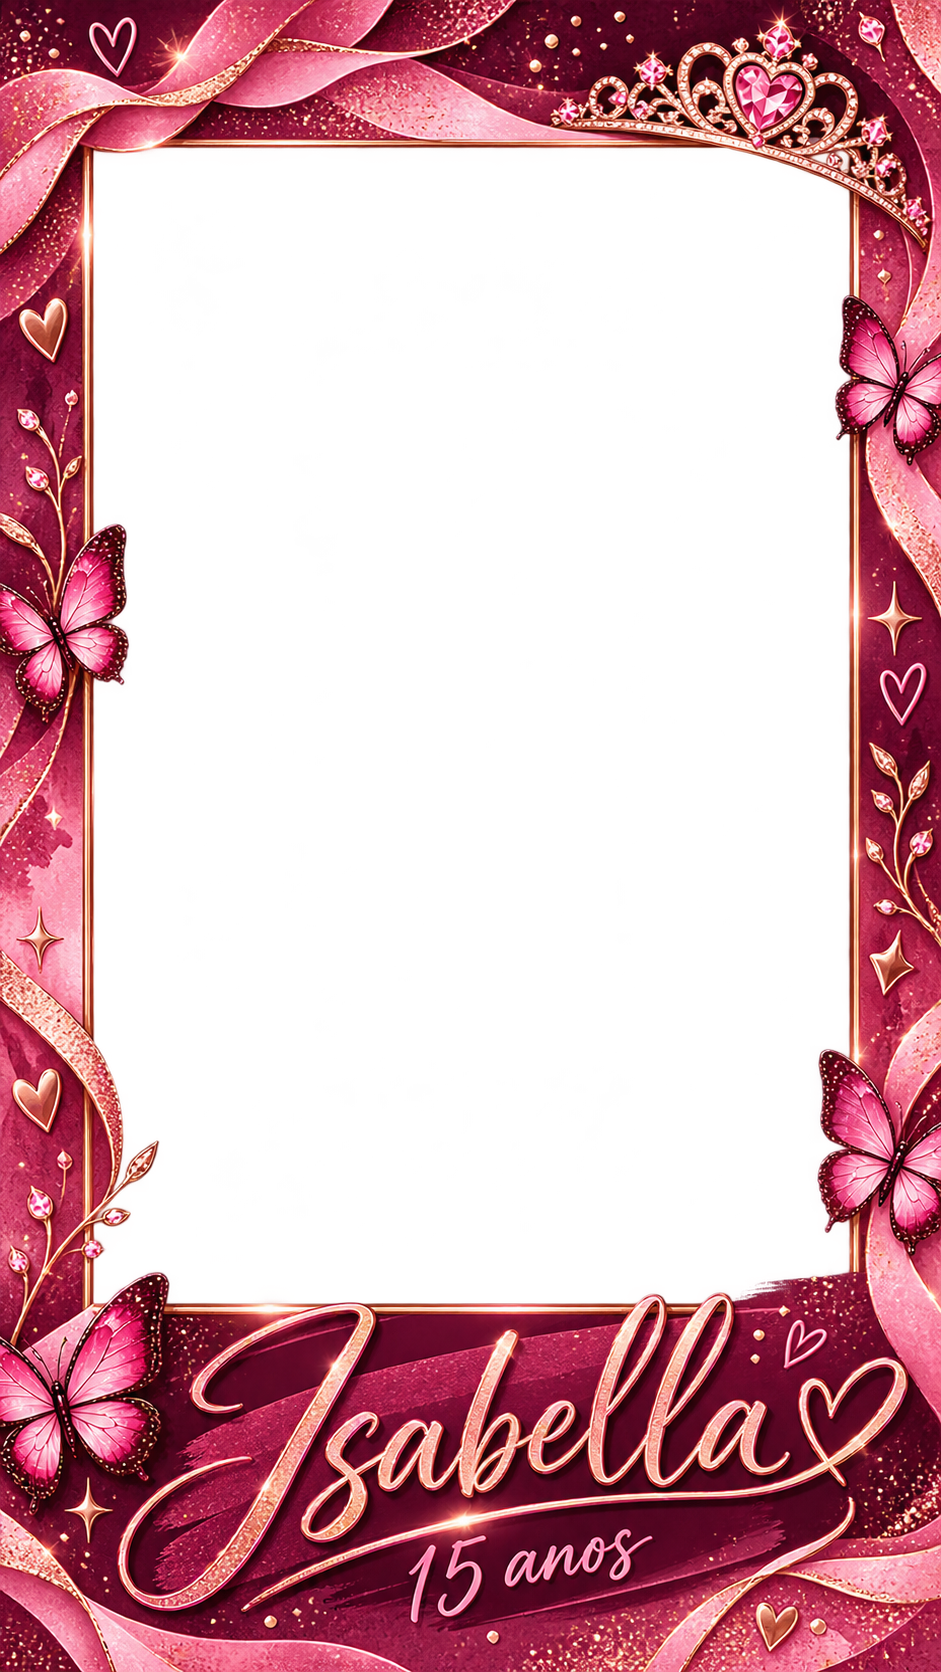
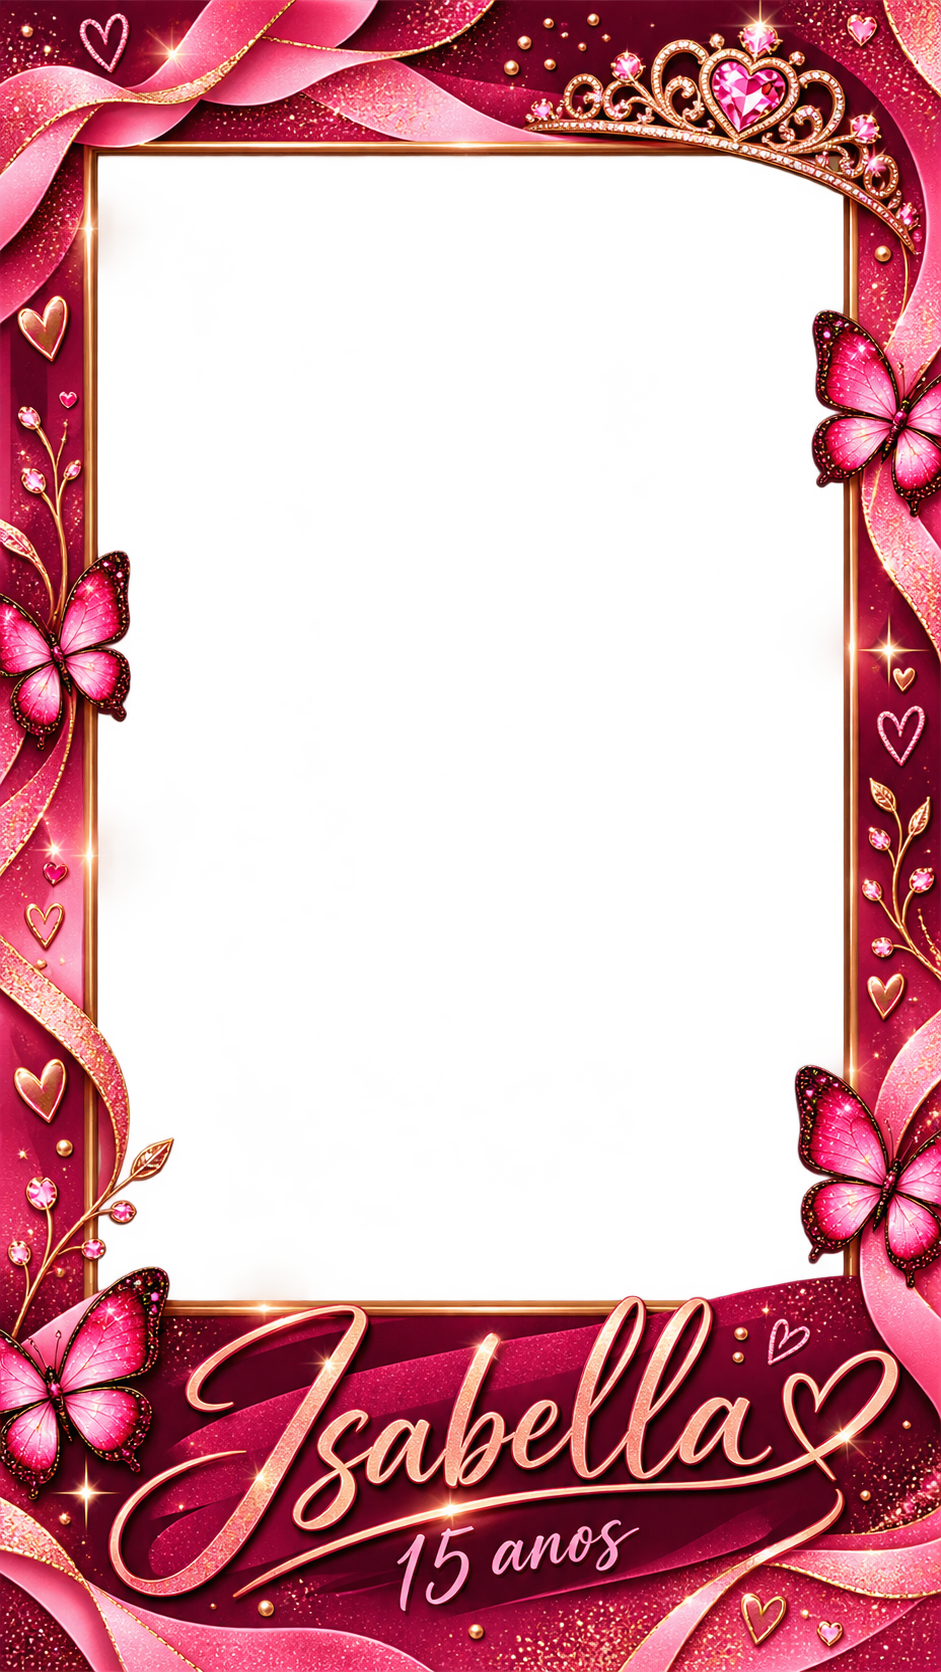
Feat/festa15

diff --git a/src/features/events/PartySealPage.jsx b/src/features/events/PartySealPage.jsx
@@ -3,24 +3,121 @@ import { TrisoLogo } from "../../components/TrisoLogo.jsx";
 import fitaIsabella1 from "../../assets/festas/isabella15/fita_isabella_1.png";
 import fitaIsabella2 from "../../assets/festas/isabella15/fita_isabella_2.png";
 import fitaIsabella3 from "../../assets/festas/isabella15/fita_isabella_3.png";
+import fitaIsabella4 from "../../assets/festas/isabella15/fita_isabella_4.png";
 
 const OUTPUT = { width: 1080, height: 1920 };
 const PARTY_TEMPLATES = {
   1: fitaIsabella1,
   2: fitaIsabella2,
   3: fitaIsabella3,
+  4: fitaIsabella4,
 };
 const loadImage = (source) => new Promise((resolve, reject) => {
+  if (!source) return resolve(null);
   const image = new Image();
   image.onload = () => resolve(image);
   image.onerror = reject;
   image.src = source;
 });
 
+const p = (x, y) => ({ x, y });
+const photoCropCache = new WeakMap();
+const ISABELLA_LAYOUTS = {
+  one: { slots: [{ x: 98, y: 157, width: 745, height: 1143, rotation: 0 }] },
+  two: { slots: [
+    { x: 105, y: 161, width: 732, height: 573, rotation: 0 },
+    { x: 105, y: 804, width: 734, height: 468, rotation: 0 },
+  ] },
+  three: { slots: [
+    { x: 108, y: 179, width: 324, height: 541, rotation: 0 },
+    { x: 512, y: 180, width: 326, height: 539, rotation: 0 },
+    { x: 109, y: 776, width: 727, height: 494, rotation: 0 },
+  ] },
+  four: { slots: [
+    { x: 101, y: 169, width: 342, height: 550, rotation: 0 },
+    { x: 499, y: 169, width: 343, height: 550, rotation: 0 },
+    { x: 102, y: 782, width: 341, height: 486, rotation: 0 },
+    { x: 499, y: 782, width: 343, height: 486, rotation: 0 },
+  ] },
+};
+
+function drawIntoPolygon(context, image, polygon) {
+  const xs = polygon.map((point) => point.x);
+  const ys = polygon.map((point) => point.y);
+  const x = Math.min(...xs);
+  const y = Math.min(...ys);
+  const width = Math.max(...xs) - x;
+  const height = Math.max(...ys) - y;
+  const crop = getPhotoCrop(image);
+  const scale = Math.max(width / crop.width, height / crop.height);
+  const drawWidth = crop.width * scale;
+  const drawHeight = crop.height * scale;
+  context.save();
+  context.beginPath();
+  context.moveTo(polygon[0].x, polygon[0].y);
+  polygon.slice(1).forEach((point) => context.lineTo(point.x, point.y));
+  context.closePath();
+  context.clip();
+  context.drawImage(image, crop.x, crop.y, crop.width, crop.height, x + (width - drawWidth) / 2, y + (height - drawHeight) / 2, drawWidth, drawHeight);
+  context.restore();
+}
+
+function getPhotoCrop(image) {
+  if (photoCropCache.has(image)) return photoCropCache.get(image);
+  const canvas = document.createElement("canvas");
+  canvas.width = image.naturalWidth || image.width;
+  canvas.height = image.naturalHeight || image.height;
+  const context = canvas.getContext("2d", { willReadFrequently: true });
+  if (!context) return { x: 0, y: 0, width: image.width, height: image.height };
+  context.drawImage(image, 0, 0);
+  const pixels = context.getImageData(0, 0, canvas.width, canvas.height).data;
+  const isDarkRow = (row) => {
+    let dark = 0;
+    for (let x = 0; x < canvas.width; x += 1) {
+      const offset = (row * canvas.width + x) * 4;
+      if (pixels[offset] < 28 && pixels[offset + 1] < 28 && pixels[offset + 2] < 28) dark += 1;
+    }
+    return dark / canvas.width > 0.94;
+  };
+  let top = 0;
+  let bottom = canvas.height - 1;
+  while (top < bottom && isDarkRow(top)) top += 1;
+  while (bottom > top && isDarkRow(bottom)) bottom -= 1;
+  const crop = { x: 0, y: top, width: canvas.width, height: bottom - top + 1 };
+  photoCropCache.set(image, crop);
+  return crop;
+}
+
+function drawIntoBox(context, image, box, scaleFactor = 1) {
+  const x = box.x * scaleFactor;
+  const y = box.y * scaleFactor;
+  const width = box.width * scaleFactor;
+  const height = box.height * scaleFactor;
+  const imageWidth = image.naturalWidth || image.width;
+  const imageHeight = image.naturalHeight || image.height;
+  const imageScale = Math.max(width / imageWidth, height / imageHeight);
+  const drawWidth = imageWidth * imageScale;
+  const drawHeight = imageHeight * imageScale;
+  context.save();
+  context.translate(x + width / 2, y + height / 2);
+  context.rotate(((box.rotation || 0) * Math.PI) / 180);
+  context.beginPath();
+  context.rect(-width / 2, -height / 2, width, height);
+  context.clip();
+  context.drawImage(image, -drawWidth / 2, -drawHeight / 2, drawWidth, drawHeight);
+  context.restore();
+}
+
 const slotsFor = (count, width, height) => {
   const makeSlot = (x, y, slotWidth, slotHeight) => ({ x: width * x, y: height * y, width: width * slotWidth, height: height * slotHeight });
-  if (count === 1) return [makeSlot(.18, .215, .71, .51)];
+  if (count === 1) return [makeSlot(.18, .145, .64, .53)];
   if (count === 2) return [makeSlot(.18, .22, .70, .22), makeSlot(.18, .47, .70, .22)];
+  if (count === 4) return [
+    makeSlot(.12, .17, .36, .28),
+    makeSlot(.52, .17, .36, .28),
+    makeSlot(.12, .51, .36, .28),
+    makeSlot(.52, .51, .36, .28),
+  ];
   return [makeSlot(.18, .20, .70, .18), makeSlot(.18, .405, .70, .18), makeSlot(.18, .61, .70, .18)];
 };
 
@@ -47,18 +144,20 @@ function drawPartyArt(images, count, event, template) {
     const templateHeight = template.height * scale;
     const offsetX = (canvas.width - templateWidth) / 2;
     const offsetY = (canvas.height - templateHeight) / 2;
+    const measuredLayout = ISABELLA_LAYOUTS[{ 1: "one", 2: "two", 3: "three", 4: "four" }[count]] || null;
+    if (measuredLayout) {
+      measuredLayout.slots.forEach((slot, index) => {
+        if (!images[index]) return;
+        drawIntoBox(context, images[index], slot, scale);
+      });
+    } else {
+      slotsFor(count, template.width, template.height).forEach((templateSlot, index) => {
+        if (!images[index]) return;
+        const slot = { x: offsetX + templateSlot.x * scale, y: offsetY + templateSlot.y * scale, width: templateSlot.width * scale, height: templateSlot.height * scale };
+        drawCover(context, images[index], slot);
+      });
+    }
     context.drawImage(template, offsetX, offsetY, templateWidth, templateHeight);
-    const inset = Math.max(6, canvas.width * .012);
-    slotsFor(count, template.width, template.height).forEach((templateSlot, index) => {
-      if (!images[index]) return;
-      const slot = {
-        x: offsetX + templateSlot.x * scale,
-        y: offsetY + templateSlot.y * scale,
-        width: templateSlot.width * scale,
-        height: templateSlot.height * scale,
-      };
-      drawCover(context, images[index], { x: slot.x + inset, y: slot.y + inset, width: slot.width - inset * 2, height: slot.height - inset * 2 });
-    });
     return canvas;
   }
   const { deep, wine, pink, blush, gold } = event.palette;
@@ -122,6 +221,28 @@ function drawPartyArt(images, count, event, template) {
   return canvas;
 }
 
+function PhotoCountIcon({ count }) {
+  return (
+    <span className={`party-count-icon party-count-icon-${count}`} aria-hidden="true">
+      {Array.from({ length: count }, (_, index) => <i key={index} />)}
+    </span>
+  );
+}
+
+function PhotoCountSelector({ value, onChange }) {
+  return (
+    <div className="party-counts" role="group" aria-label="Quantidade de fotos">
+      {[1, 2, 3, 4].map((option) => (
+        <button key={option} type="button" className={value === option ? "active" : ""} onClick={() => onChange(option)}>
+          <PhotoCountIcon count={option} />
+          <b>{option}</b>
+          <small>{option === 1 ? "foto" : "fotos"}</small>
+        </button>
+      ))}
+    </div>
+  );
+}
+
 export function PartySealPage({ event }) {
   const [count, setCount] = useState(1);
   const [photos, setPhotos] = useState([""]);
@@ -135,6 +256,7 @@ export function PartySealPage({ event }) {
   const inputs = useRef([]);
   const nextPhotoIndex = photos.findIndex((photo) => !photo);
   const remaining = photos.filter((photo) => !photo).length;
+  const landscapeHint = count === 2 || (count === 3 && nextPhotoIndex === 2);
 
   useEffect(() => {
     let cancelled = false;
@@ -211,12 +333,12 @@ export function PartySealPage({ event }) {
       <div className="party-copy">
         <p>FESTA DE 15 ANOS</p><h1>Eu fui aos 15 da <em>{event.shortName}.</em></h1>
         <span>Escolha quantas fotos farão parte da sua lembrança. Todas as opções saem no formato de tela cheia para Stories e Reels.</span>
-        <div className="party-counts" role="group" aria-label="Quantidade de fotos">
-          {[1, 2, 3].map((option) => <button key={option} type="button" className={count === option ? "active" : ""} onClick={() => chooseCount(option)}><img src={PARTY_TEMPLATES[option]} alt={`Modelo com ${option} ${option === 1 ? "foto" : "fotos"}`} /><b>{option}</b><small>{option === 1 ? "foto" : "fotos"}</small></button>)}
-        </div>
+        <PhotoCountSelector value={count} onChange={chooseCount} />
         <div className="party-uploads">
           {nextPhotoIndex >= 0 ? <div className="party-upload">
             <input ref={(node) => { inputs.current[nextPhotoIndex] = node; }} id={`party-photo-${nextPhotoIndex}`} type="file" accept="image/*" onChange={(eventInput) => selectPhoto(nextPhotoIndex, eventInput.target.files?.[0])} />
+            {landscapeHint && <small>Para este quadro, tire a foto com o celular deitado.</small>}
+            {landscapeHint && <b className="party-orientation-note">Antes de tocar na prévia: use o celular deitado para esta foto.</b>}
             <small>Toque na prévia abaixo para adicionar a foto {nextPhotoIndex + 1}. Faltam {remaining} {remaining === 1 ? "foto" : "fotos"}.</small>
           </div> : <div className="party-upload party-upload-complete"><span>{count} {count === 1 ? "foto enviada" : "fotos enviadas"}</span><b>Montagem pronta para criar.</b></div>}
         </div>

diff --git a/src/campaigns.css b/src/campaigns.css
@@ -52,3 +52,14 @@ html,body,#root{margin:0;min-height:100%}.dralfredo-counter-error{display:block;
 .party-page>.dralfredo-header{border-bottom-color:rgba(255,217,228,.35)}.party-page>.dralfredo-header>span{color:#f7c969;font-size:11px;font-weight:900;letter-spacing:.14em}.party-page>.dralfredo-footer{border-top-color:rgba(255,217,228,.35);color:#f8dce6}.party-page>.dralfredo-footer b,.party-page>.dralfredo-footer a{color:#f7c969}
 .party-layout{grid-template-columns:minmax(290px,.85fr) minmax(360px,1fr);gap:clamp(35px,7vw,96px);align-items:start}.party-copy{width:auto;justify-self:stretch}.party-preview{order:initial;width:min(100%,510px);margin-top:18px}@media(max-width:760px){.party-layout{grid-template-columns:1fr;gap:36px}.party-preview{order:initial;width:min(100%,430px);margin-top:0}}
 .party-counts{max-width:450px}.party-counts img{height:clamp(118px,12vw,170px);aspect-ratio:auto;object-fit:contain;background:rgba(37,2,18,.45)}.party-preview{display:grid;place-items:center;width:min(100%,420px);margin-top:0}.party-preview img{width:auto;max-width:100%;height:min(68svh,680px);max-height:none;object-fit:contain}@media(max-width:760px){.party-counts{max-width:none}.party-counts img{height:clamp(110px,32vw,155px)}.party-preview{width:min(100%,360px);margin-top:0}.party-preview img{width:100%;height:auto;max-height:none}}
+.party-count-icon{display:grid;width:100%;height:clamp(118px,12vw,170px);margin-bottom:7px;padding:18px;box-sizing:border-box;gap:8px;place-content:center;border:1px solid rgba(255,255,255,.38);background:rgba(37,2,18,.45)}.party-count-icon i{display:block;width:48px;height:30px;border:2px solid #f7c969;border-radius:4px;background:linear-gradient(145deg,rgba(255,255,255,.3),rgba(255,255,255,.05));box-shadow:3px 3px 0 rgba(247,201,105,.25)}.party-count-icon-2,.party-count-icon-3{grid-template-columns:repeat(2,1fr);align-items:center}.party-count-icon-2 i,.party-count-icon-3 i{width:34px;height:27px}.party-count-icon-3 i:last-child{grid-column:1 / -1;justify-self:center}
+.party-count-icon{display:grid;grid-template-columns:1fr;width:100%;height:clamp(118px,12vw,170px);margin-bottom:7px;padding:14px 24px;box-sizing:border-box;gap:5px;place-content:center;border:1px solid rgba(255,255,255,.38);background:transparent}.party-count-icon i{display:block;width:100%;height:auto;min-height:22px;border:1px solid #f7c969;border-radius:1px;background:transparent;box-shadow:none}.party-count-icon-1 i{height:72px}.party-count-icon-2,.party-count-icon-3{grid-template-columns:1fr;align-items:stretch}.party-count-icon-2 i{height:31px}.party-count-icon-3 i{height:21px}.party-count-icon-3 i:last-child{grid-column:auto;justify-self:stretch}
+.party-count-icon-4{grid-template-columns:repeat(2,1fr);grid-template-rows:repeat(2,1fr);padding:18px 15px}.party-count-icon-4 i{width:100%;height:100%;min-height:21px}
+.party-counts{grid-template-columns:repeat(4,minmax(0,1fr));width:100%;max-width:520px;gap:8px}.party-counts button{min-width:0;padding:5px}.party-count-icon{height:clamp(92px,10vw,132px);padding:10px 9px;margin-bottom:5px}.party-count-icon i{min-height:16px}.party-count-icon-1 i{height:58px}.party-count-icon-2 i{height:24px}.party-count-icon-3 i{height:16px}.party-count-icon-4{padding:10px 7px;gap:4px}.party-count-icon-4 i{height:100%;min-height:16px}.party-counts b{font-size:18px}.party-counts small{font-size:8px}@media(max-width:760px){.party-counts{grid-template-columns:repeat(4,minmax(0,1fr));gap:6px}.party-counts button{padding:4px}.party-count-icon{height:clamp(82px,24vw,112px);padding:8px 6px}.party-count-icon-1 i{height:50px}.party-count-icon-2 i{height:20px}.party-count-icon-3 i{height:14px}.party-counts b{font-size:16px}.party-counts small{font-size:7px;letter-spacing:.04em}}
+.party-count-icon{grid-template-columns:1fr;height:clamp(92px,10vw,132px);padding:10px 9px;gap:5px}.party-count-icon i,.party-count-icon-1 i,.party-count-icon-2 i,.party-count-icon-3 i,.party-count-icon-4 i{width:100%;height:auto;min-height:0;aspect-ratio:1;border:1px solid #f7c969}.party-count-icon-2{grid-template-columns:repeat(2,1fr);grid-template-rows:1fr}.party-count-icon-3,.party-count-icon-4{grid-template-columns:repeat(2,1fr);grid-template-rows:repeat(2,1fr)}.party-count-icon-3 i:last-child{grid-column:auto;justify-self:stretch}.party-count-icon-3 i:last-child{grid-column:1 / -1;justify-self:center;width:calc(50% - 2px)}.party-count-icon-4{padding:10px 7px;gap:4px}@media(max-width:760px){.party-count-icon{height:clamp(82px,24vw,112px);padding:8px 6px;gap:4px}.party-count-icon-4{padding:8px 5px;gap:3px}}
+.party-count-icon{display:grid;place-items:center;width:100%;height:clamp(86px,9vw,118px);margin:0 0 6px;padding:8px;box-sizing:border-box;gap:5px;border:0;background:transparent}.party-count-icon i{display:block;width:100%;height:100%;min-width:0;min-height:0;aspect-ratio:1;border:1px solid #f7c969;border-radius:0;background:transparent;box-shadow:none}.party-count-icon-1{grid-template-columns:minmax(0,58px);grid-template-rows:minmax(0,58px)}.party-count-icon-2{grid-template-columns:repeat(2,minmax(0,1fr));grid-template-rows:minmax(0,1fr)}.party-count-icon-3,.party-count-icon-4{grid-template-columns:repeat(2,minmax(0,1fr));grid-template-rows:repeat(2,minmax(0,1fr))}.party-count-icon-3 i:last-child{grid-column:1 / -1;width:calc(50% - 2px);justify-self:center}.party-count-icon-4 i:last-child{grid-column:auto;width:100%}@media(max-width:760px){.party-count-icon{height:clamp(76px,22vw,100px);padding:6px;gap:4px}.party-count-icon-1{grid-template-columns:minmax(0,50px);grid-template-rows:minmax(0,50px)}}
+.party-count-icon-2{grid-template-columns:minmax(0,1fr);grid-template-rows:repeat(2,minmax(0,1fr))}.party-count-icon-2 i{width:100%;height:100%}
+.party-count-icon-2{grid-template-columns:repeat(2,minmax(0,1fr));grid-template-rows:repeat(2,minmax(0,1fr))}.party-count-icon-2 i:first-child{grid-column:1;grid-row:1}.party-count-icon-2 i:last-child{grid-column:2;grid-row:2}
+.party-preview{width:min(100%,520px);padding:8px}.party-preview img{display:block;width:100%;height:auto;max-height:none;object-fit:contain}@media(max-width:760px){.party-preview{width:min(100%,430px);padding:6px}.party-preview img{width:100%;height:auto}}
+.party-preview{width:min(100%,420px);padding:7px}.party-preview img{width:100%;height:auto;max-height:none}@media(max-width:760px){.party-preview{width:min(100%,350px);padding:6px}.party-preview img{width:100%;height:auto}}
+.party-orientation-note{display:block;margin-top:6px;color:#f7c969;font-size:11px;line-height:1.35}

diff --git a/src/features/commerce/CommercePages.jsx b/src/features/commerce/CommercePages.jsx
@@ -1492,8 +1492,11 @@ export function PaymentReturnPage() {
   const saved = JSON.parse(
     sessionStorage.getItem("triso_current_order") || "null",
   );
-  const orderId =
-    new URLSearchParams(window.location.search).get("order_nsu") || saved?.id;
+  const paymentParams = new URLSearchParams(window.location.search);
+  const paymentData = Object.fromEntries(paymentParams.entries());
+  const orderId = paymentData.order_nsu || saved?.id;
+  if (Object.keys(paymentData).length)
+    sessionStorage.setItem("triso_payment_return", JSON.stringify(paymentData));
   return orderId ? (
     <ConfirmationPage orderId={orderId} />
   ) : (
